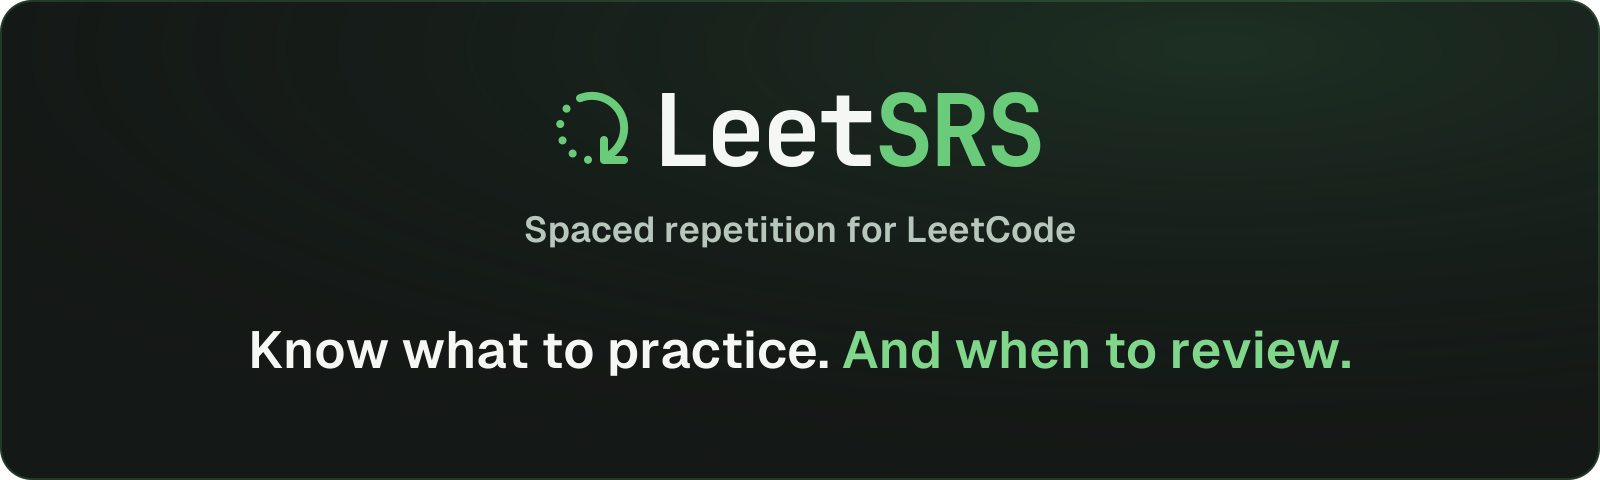
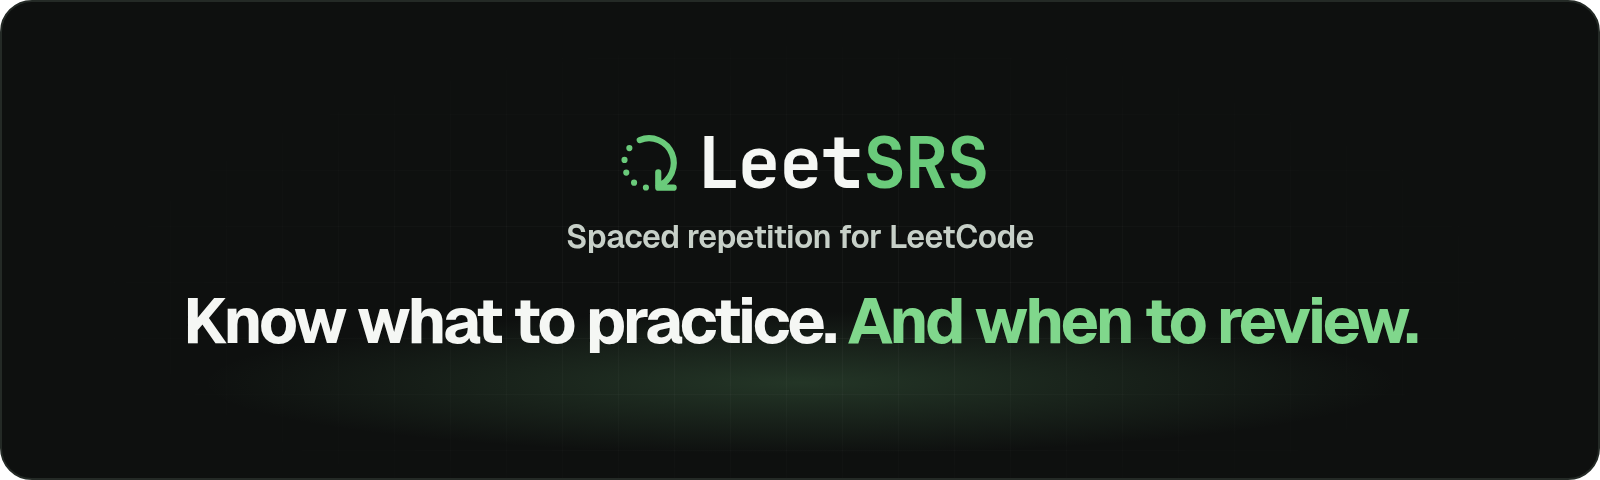
docs: refresh README and promo images for the redesign (#720)

Changed region(s): [[0.3438, 0.0, 0.9688, 0.4062], [0.0938, 0.625, 0.9062, 0.8125], [0.3125, 0.4375, 0.6875, 0.5312]]

diff --git a/assets/promo/README.md b/assets/promo/README.md
@@ -1,27 +1,23 @@
 # LeetSRS promo assets
 
-Promotional images, logos, and social cards for LeetSRS.
+Promotional images, logos, and social cards for LeetSRS. Sources and the render script live in the [LeetLanding repository](https://github.com/mattcdrake/LeetLanding/tree/main/assets/cws/v2.0); copy approved renders here.
 
 | Asset                                              | Size       |
 | -------------------------------------------------- | ---------- |
-| [Practice plan](01-practice-plan.png)              | 1280 × 800 |
-| [Roadmaps](02-roadmaps.png)                        | 1280 × 800 |
-| [LeetCode workflow](03-leetcode-workflow.png)      | 1280 × 800 |
-| [Review calendar](04-review-calendar.png)          | 1280 × 800 |
-| [Local practice and sync](05-local-sync.png)       | 1280 × 800 |
+| [1. Hero](01-hero.png)                             | 1280 × 800 |
+| [2. Solve, rate, review](02-loop.png)              | 1280 × 800 |
+| [3. Review queue](03-review-queue.png)             | 1280 × 800 |
+| [4. Roadmaps](04-roadmaps.png)                     | 1280 × 800 |
+| [5. Calendar](05-calendar.png)                     | 1280 × 800 |
 | [Small promo](small-promo.png)                     | 440 × 280  |
 | [Marquee](marquee.png)                             | 1400 × 560 |
 | [README banner](readme-banner.png)                 | 1600 × 480 |
 | [Chrome install button](add-to-chrome.png)         | 584 × 104  |
 | [GitHub social preview](social/github-preview.png) | 1280 × 640 |
 
-The five `*-preview.png` files are 640 × 400 readability previews.
+The five Chrome Web Store screenshots are numbered in listing order. Each has a 640 × 400 `*-preview.png` for checking legibility at store preview size. Store images are RGB PNGs without transparency.
 
-The README banner displays at 800 pixels wide, with a 2× PNG for sharp text. Its [SVG source](readme-banner.svg) contains outlined typography so it renders consistently without installed fonts. It combines the logo, “Spaced repetition for LeetCode,” and the approved tagline.
+The README banner displays at 800 pixels wide and the install button at 292 × 52; both are 2× PNGs with transparent rounded corners. The GitHub social preview is uploaded in the repository settings.
 
-The README install button displays at 292 × 52 pixels and links to the Chrome Web Store. Its [SVG source](add-to-chrome.svg) reuses the website's Chrome outline icon and outlined Geist typography; the 2× PNG stays sharp on high-density displays.
-
-The README embeds the original [MP4 demo](https://github.com/user-attachments/assets/2e3da2f3-f452-4cef-8275-e131c7f43f9d) through GitHub attachments. The [source recording](https://github.com/mattcdrake/LeetLanding/blob/main/src/assets/video/screencast.mp4) remains in the landing repository at its original resolution and frame rate.
-
-- `logos/`: SVG source and PNG icons at 16, 32, 48, 60, 96, and 128 pixels. The 32px icon also serves as the website favicon.
-- `social/`: the 1200 × 630 brand card and the 1280 × 640 GitHub preview, with SVG sources.
+- `logos/`: SVG source and PNG icons at 16, 32, 48, 60, 96, and 128 pixels.
+- `social/`: the 1200 × 630 website sharing preview and the 1280 × 640 GitHub preview.

diff --git a/README.md b/README.md
@@ -10,14 +10,16 @@ LeetSRS is a Chrome extension that helps you remember what you learn on LeetCode
   </a>
 </p>
 
-https://github.com/user-attachments/assets/2e3da2f3-f452-4cef-8275-e131c7f43f9d
+<p align="center">
+  <img src="assets/promo/02-loop.png" width="800" alt="Solve on LeetCode, rate your recall in the LeetSRS panel, and review when it's due: rating Alien Dictionary Good schedules it for Thursday, October 15." />
+</p>
 
 ## Get started
 
 1. [Install LeetSRS from the Chrome Web Store](https://chromewebstore.google.com/detail/odgfcigkohoimpeeooifjdglncggkgko).
 2. **Solve a problem.** Choose your own on LeetCode or follow a roadmap for suggestions.
-3. **Rate your recall.** Choose **Again**, **Hard**, **Good**, or **Easy** in the LeetSRS panel to schedule your next review.
-4. **Return for review.** Open your review queue for problems that are due. Try them again and give each a new rating. Check the calendar for upcoming reviews.
+3. **Rate your recall.** When your submission is accepted, the LeetSRS panel opens on the problem page. Choose **Again**, **Hard**, **Good**, or **Easy**, or press 1–4, to schedule your next review. Each rating shows when the problem will come back.
+4. **Return for review.** Open LeetSRS: **Home** shows problems that are due, one at a time, and you can rate them right there. **Calendar** shows the next four weeks of reviews.
 
 LeetSRS uses your ratings and review history with the [FSRS spaced repetition algorithm](https://github.com/open-spaced-repetition/ts-fsrs) to adjust your review schedule.
 
@@ -36,11 +38,11 @@ For optional sync across devices, connect GitHub and select a Gist in your own G
 <details>
 <summary>Set up GitHub sync</summary>
 
-1. Select **Sign in with GitHub** in Settings.
+1. In Settings, under **GitHub Gist sync**, select **Sign in with GitHub**.
 2. Choose an existing backup or **Create New Gist**, then select **Connect and sync**.
 3. Repeat on each browser, selecting the same backup. Credentials and the selected backup stay local to each installation.
 
-Use the sync toggle to pause syncing. **Sign out** removes the local connection and credentials while keeping your practice data and GitHub backups.
+Turn off **Sync automatically** to pause syncing. **Sign out** removes the local connection and credentials while keeping your practice data and GitHub backups.
 
 Sync uses the entire dataset from the browser with the newest edit; it does not merge individual problems. Concurrent changes on another computer can be lost. Sync runs after local edits, when the extension starts, and at least once per minute for retry while enabled.
 
